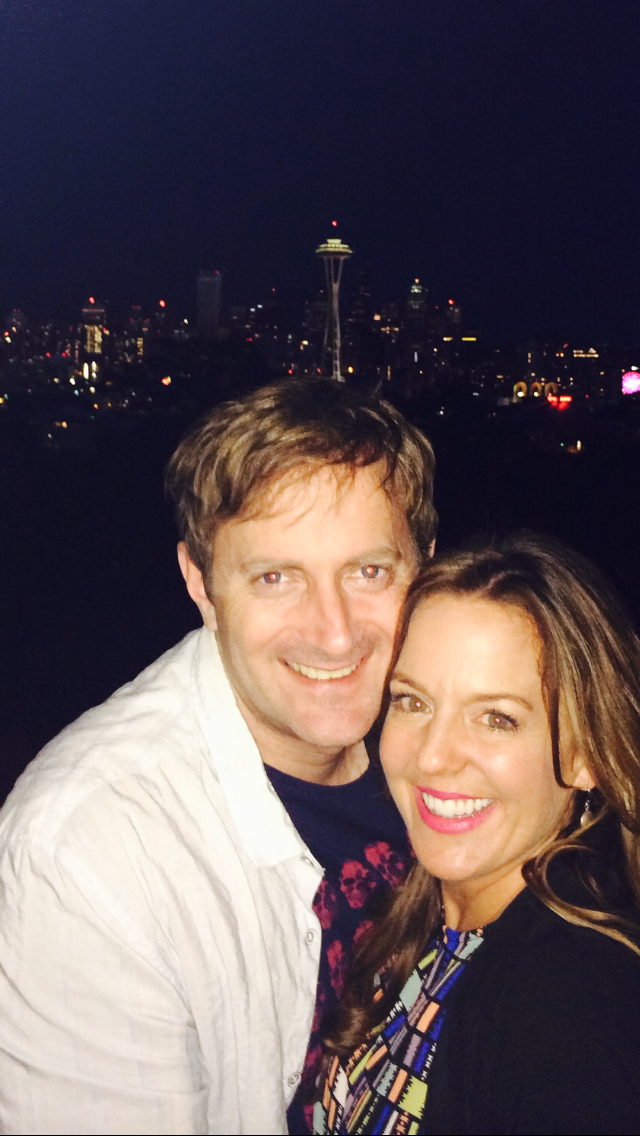
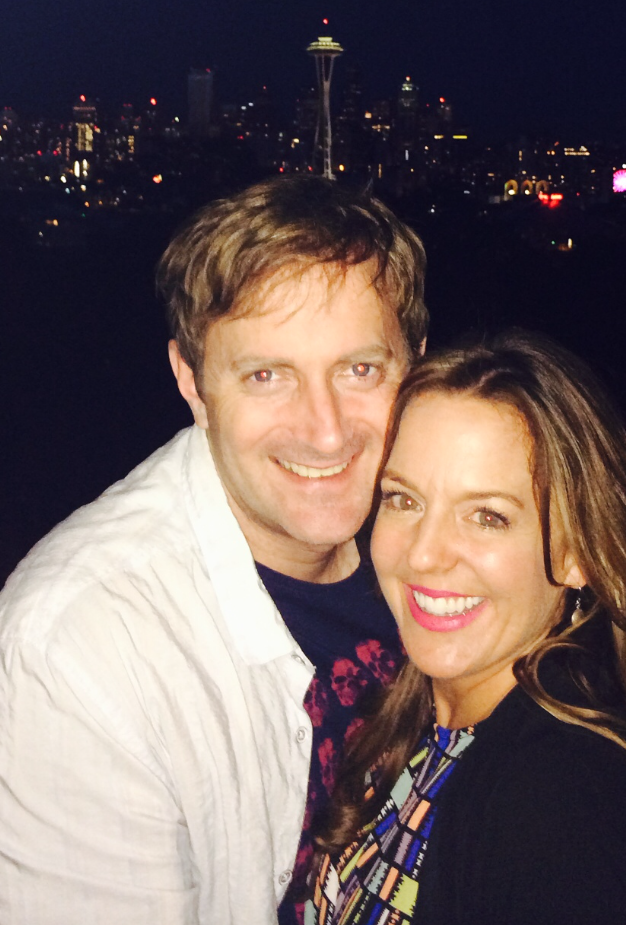
changes

diff --git a/index.html b/index.html
@@ -6,11 +6,30 @@
 <body>
 <div class="graphic"><img src="header.jpg" />
 <div class="wrap"><br><br>
+  <a name="W9T"></a>
+ <b>11/13/2014</b><br><br>
+ <p align = center><font size=5><i>My website has a ways to go.....</i></font> </p><br><br>
+ This website became live two months ago.  And it was awful.  Like, really bad.  I'm new to this so I spent countless hours trying to get myself out of rabbit holes.  And it was really, really frustrating.  I had to time-box while creating the website so I had to leave my site looking like a bomb exploded on it.  I had to get off it, I told myself, and get onto to the next week's lesson.  I'll come back to it pronto, I said.  <br><br>
+ But I was so swamped with not only DBC but my regular full-time job that getting back to such a mess was daunting so I had to delay it.  After a month the site was unchanged and I was embarrassed that people actually saw it.
+ <br><br>
+ But I did come back to it.  I asked a couple friends to give me advice.  They were telling me I had to all this stuff that was over my head so I realized I just had to make it un-embarrassing.  Yes, I know that's not a real word. So I went step by step with manipulating my objects around using css.  I went back to the drawing board and reread lots of tutorials. I got the "a to z-index" grounded and add links to all my blogs.  And I added my name for good measure.  And finally I changed my "about me" page which still has work to do.<br><br>
+ I'm no longer embarrassed with my website but I still have a ways to go.  It still looks unprofessional but I'll make it look a lot nicer as the weeks in San Francisco go on.  On to DBC!
+ <br><br>
+<a name="W9C"></a>
+ <b>11/11/2014</b><br><br>
+ <p align = center><font size=5><i>Questions, Questions, Questions</i></font> </p><br><br>
+ Life is full of questions.  Humans know very, very little about the universe. For every question answered we gain four more questions.  What's the meaning of life?  No idea, right?  So the most important questions go unanswered.  But what of the questions that are answerable?  Why is the sky blue?  Why do we have five fingers but not 4?  Lots of questions out there.  But what makes a question.... well, good?<br><br>
+<h4>1. Title</h4> Imagine seeing an e-mail with the subject "Ruby Question".  It doesn't really tell us anything.  But something like "Difference between map, each, and collect?" is obviously better. Even worse, imagine your question has nothing to do with map, each or collect, but about "==" vs ===" instead? People will be really confused.<br><br>
+<h4>2. Clarity and Brevity</h4>  Clarity is key not just to the subject or title but throughout your question.  And give as much information as possible in as little space as possible.  Would you read a question 4 paragraphs long? Of course not.  If you have a question 4 paragraphs long you probably have more than one question.  Try to keep your question as specific as possible.  Pinpoint it.  You'll get a lot more responses.<br><br>
+<h4>3. Give an Example</h4> The best way to learn is try to get there yourself.  Having someone just give you the answer isn't really expanding your learning process.  So give an example of your work so people can help you in the right direction. Learning is always better when you teach yourself!<br><br>
+<h4>4. What You Thought</h4> It's always a good idea to say what you thought was the right answer.  For example, say I asked help with this: 3 + 3. I could get help with this but I would be better off saying I thought the answer was 9.  That way, someone can tell me I was confused with addition and multiplication.  Something that might have been overlooked if you didn't provide your answer.
 <a name="W8C"></a>
+<br><br>
  <b>11/8/2014</b><br><br>
- <p align = center><font size=5><i>Navigating Through Conflict</i></font> </p><br><br><a name="W8T"></a>
+ <p align = center><font size=5><i>Navigating Through Conflict</i></font> </p><br><br>
 The last emotional conflict was with myself.  I already committed to do two things this week and I needed to make some choices. One had to do with my career and the other had to do with personal growth. Both were time-greedy as they both required many, many hours of dedication.  Do I one, the other, or both?  I did both but it the drawbacks were glaring.  I did not spend enough time on either of them and it showed in the in the end product. <br><br> Both activities had long term effects in a hugely beneficial way.  I handled the conflict by doing both but I don't know if it was the right choice.  I will probably never know.  But I think I made the right call even though both suffered in the lack of quality time I invested.  I did just enough of both to make it possible to say I got a lot out of doing them.  If I just did one of the activities I would have made huge strides in that area but it would have had devistating consequences in the other area.  There's only so much time and so many things to do.  My choice was of compromise.  And I hate to compromise.  It rarely passes my stink test.  But you gotta do what you gotta do!
  <br><br>
+ <a name="W8T"></a>
  <b>11/4/2014</b><br><br>
  <p align = center><font size=5><i>Recursion</i></font> </p><br><br>
 What's recursion and why do we need it in programming?  Recursion is the process of repeating items in a self-similar way.  An example of this is when you point two mirrors at each other:  Each image that one mirror reflects is nested in the others' reflection as well.  In programming recursion is a method of defining functions in such a way that the function is defined in it's own definition.  Let's take a look at an non-recursive example.
@@ -197,6 +216,8 @@ This type of learning is quite exhilarating and makes me a little nervous.  But 
 <div id="line"></div>
 <p align="center"><em>Blog Posts</em></p>
 <p align="center">
+<a href="#W9T">Week 9 Technical</a><br><br>
+<a href="#W9C">Week 9 Cultural</a><br><br>
 <a href="#W8C">Week 8 Cultural</a><br><br>
 <a href="#W8T">Week 8 Technical</a><br><br>
 <a href="cs.html">GIT Cheat Sheat</a><br><br>

diff --git a/about-me.html b/about-me.html
@@ -1,17 +1,26 @@
 <!doctype HTML>
 <head>
-<link rel="stylesheet" type="text/css" href="blog-stylesheets.css">
+<link rel="stylesheet" type="text/css" href="stylesheet.css">
 </head>
 <body>
 <p align="center"><font size ="8">About Me</font></p>
-<p>I was born in Chicago, Ill. and my forebearers mostly stemmed from islands - Sicicly, Ireland and England. Both of my parents are from upstate New York but wanted out as soon as possible and went west until finally picking Irvine as home.  I went to school at UC Santa Santa and I currently live in Anaheim Hills, CA.  I like spending my time coding and traveling with my girlfriend to various parts of the world.  Check out some pics.</p>
+<div class="text">
+  <p>I was born in Chicago, Ill. and my forebearers mostly stemmed from islands - Sicicly, Ireland and England. Both of my parents are from upstate New York but wanted out as soon as possible and went west until finally picking Irvine as home.  I went to school at UC Santa Santa and I currently live in Anaheim Hills, CA.  I like spending my time coding and traveling with my girlfriend to various parts of the world.  Check out some pics.</p>
+</div>
+<div class="pic1">
+<img src="photo8.PNG" /></div>
 
-<img src="photo8.PNG" />
-<img src="photo9.PNG" />
-<img src="photo6.PNG" />
-<img src="photo2.PNG" />
-<img src="photo7.PNG" />
+<div class="pic2">
+<img src="photo9.PNG" /></div>
 
+<div class="pic3">
+<img src="photo6.PNG" /></div>
+
+<div class="pic4">
+<img src="photo2.PNG" /></div>
+
+<div class="pic5">
+<img src="photo7.PNG" /></div>
 
   </body>
   </html>

diff --git a/stylesheet.css b/stylesheet.css
@@ -1,8 +1,60 @@
 body {
   margin: 10;
 }
+.text {
+  font-family: sans-serif;
+  font-size: 20px;
+  text-align: center;
+}
+.pic1 {
 
+
+margin: 0 auto;
+  width: 612px;
+    height: 831px;
+   padding:1px;
+   border:1px solid #021a40;
+  background-color:#ff0;
+
+}
+.pic2 {
+  margin: 0 auto;
+  width: 585px;
+    height: 904px;
+   padding:1px;
+   border:1px solid #021a40;
+  background-color:#ff0;
+
+}
+.pic3 {
+  margin: 0 auto;
+ width: 621px;
+    height: 818px;
+   padding:1px;
+   border:1px solid #021a40;
+  background-color:#ff0;
+
+}
+.pic4 {
+  margin: 0 auto;
+ width: 548px;
+    height: 797px;
+   padding:1px;
+   border:1px solid #021a40;
+  background-color:#ff0;
+
+}
+.pic5 {
+  margin: 0 auto;
+ width: 626px;
+    height: 925px;
+   padding:1px;
+   border:1px solid #021a40;
+  background-color:#ff0;
+
+}
 .wrap {
+
   width: 800px;
   height: 1000px;
   background: white;
